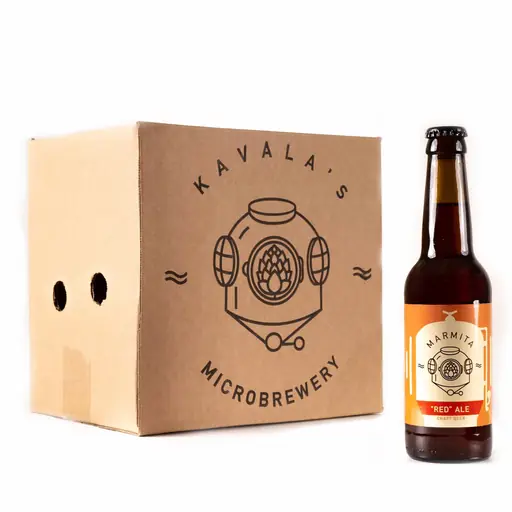
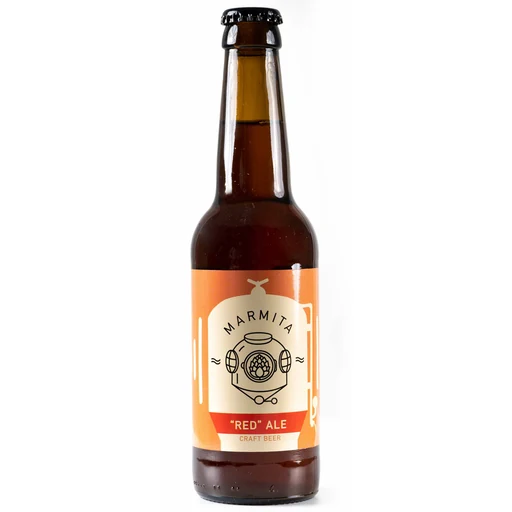
03-CRAFT: official Marmita single, real Utopia Babylon/Eden (were wrong product)

diff --git a/scripts/fetch-menu-images.py b/scripts/fetch-menu-images.py
@@ -222,6 +222,21 @@ _OVERRIDES_RAW: dict[str, tuple[str, str]] = {
         "https://marmitabeer.com/wp-content/uploads/2021/01/Redale.jpg",
         "https://marmitabeer.com/product/marmita-red-ale-330-ml-pack/",
     ),
+    # 03-CRAFT: official Marmita single + beer24 white singles. The old
+    # 038/039 files showed the wrong product entirely (Samuel Adams
+    # Utopias decanter); Babylon was cut out from its red eshop backdrop.
+    "craft::Marmita Red 330ml": (
+        "https://marmitabeer.com/wp-content/uploads/2021/01/Redale.jpg",
+        "https://marmitabeer.com/product/marmita-red-ale-330-ml-pack/",
+    ),
+    "craft::Utopia Babylon IPA 330ml": (
+        "https://beer24.gr/b/9627-large_default/utopia-babylon-033lt.jpg",
+        "https://beer24.gr/b/brand/355-utopia",
+    ),
+    "craft::Utopia Eden IPL 330ml": (
+        "https://beer24.gr/b/4999-large_default/utopia-eden-ipl-033lt.jpg",
+        "https://beer24.gr/b/brand/355-utopia",
+    ),
     "whiskeys::Teeling": (
         "https://aem.lcbo.com/content/dam/lcbo/products/6/4/4/2/644237.jpg.thumb.1280.1280.jpg",
         "https://www.lcbo.com/en/teeling-small-batch-irish-whiskey-644237",

diff --git a/public/menu/ATTRIBUTION.md b/public/menu/ATTRIBUTION.md
@@ -58,6 +58,8 @@ Product photos: Open Food Facts (CC BY-SA), Wikimedia Commons
 | `craft-035.webp` | https://greekbeershop.gr/product/marmita-apa/ |
 | `craft-036.webp` | https://greekbeershop.gr/product/marmita-stout/ |
 | `craft-037.webp` | https://www.thedistiller.gr/p/marmita-powwow-ipa-byra-330ml |
+| `craft-038.webp` | https://beer24.gr/b/brand/355-utopia (background removed) |
+| `craft-039.webp` | https://beer24.gr/b/brand/355-utopia |
 | `craft-040.webp` | https://charitakis.com/product/bira-kyria-toula-sourmena-brew-alc-6-vol-fiali-330ml/ |
 | `gin-097.webp` | https://world.openfoodfacts.org/product/5010296002171 |
 | `gin-098.webp` | https://world.openfoodfacts.org/product/5000329002193 |
